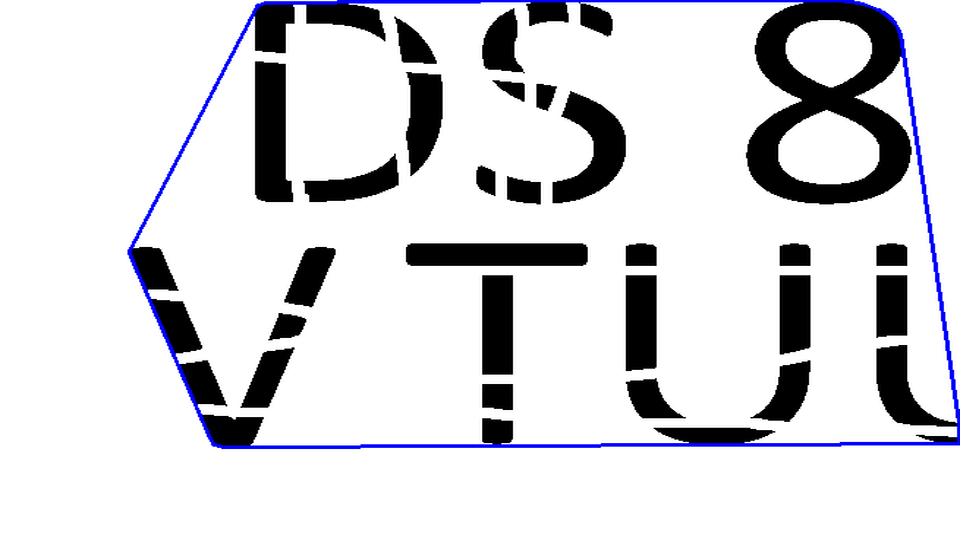
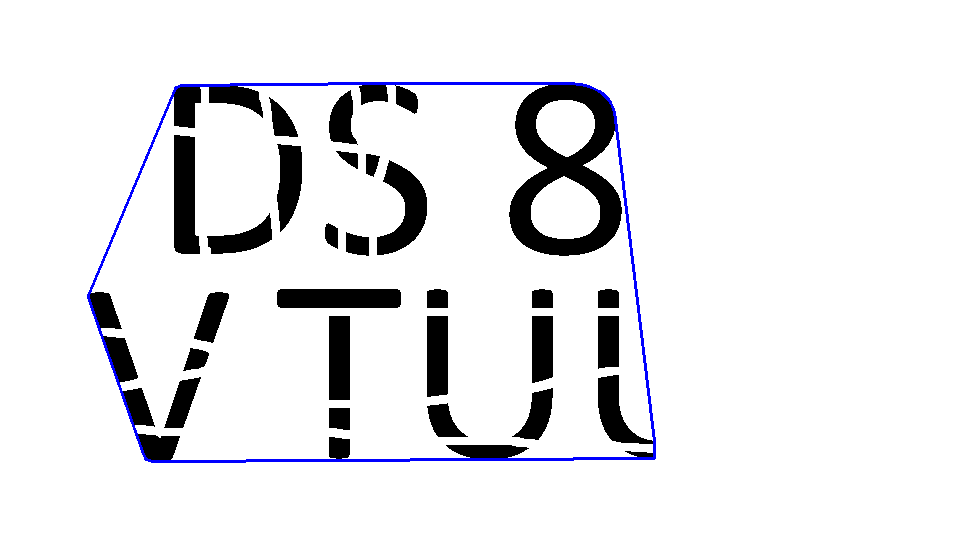
Lab 3 Res Fix

Changed region(s): [[0.0938, 0.0, 1.0, 0.8593]]

diff --git a/3/lab.py b/3/lab.py
@@ -5,15 +5,17 @@ import cv2
 import numpy as np
 from PIL import Image
 
+
 def getDataFromFile(path: str) -> str:
     with open(path, 'r') as file:
         return file.read()
+
 
 def getCordsFromData(data: str) -> set:
     x = []
     y = []
 
-    data = data.split('\n') 
+    data = data.split('\n')
     for string in data:
         if string:
             x_, y_ = string.split(' ')
@@ -23,25 +25,28 @@ def getCordsFromData(data: str) -> set:
 
     return x, y
 
-def getImageArrayFromCords(x: List[int], y: List[int], color: List[int]) -> list:
-    imageArray = np.zeros([ max(y) + 1, max(x) + 1, 4], dtype=np.uint8)
+
+def getImageArrayFromCords(width: int, height: int, rgb: int, x: List[int], y: List[int], color: List[int]) -> list:
+    imageArray = np.zeros([height, width, rgb], dtype=np.uint8)
 
     for i in range(len(x)):
         imageArray[y[i]][x[i]] = color
-    
+
     return imageArray
 
+
 def enchanceImage(image):
-    image = image.resize((540, 960), Image.LANCZOS)
     image = image.rotate(90, expand=True)
 
     return image
 
+
 def changeExtToPng(path: str) -> str:
     return path[:path.find('.') + 1] + 'png'
 
+
 def convexHullFromImage(x: List[int], y: List[int], savePath: str, lineColor: set) -> str:
-    dots = [ [[x[i], y[i]]] for i in range(len(x)) ]
+    dots = [[[x[i], y[i]]] for i in range(len(x))]
     dots = np.array(dots)
     hull = cv2.convexHull(dots)
 
@@ -51,7 +56,11 @@ def convexHullFromImage(x: List[int], y: List[int], savePath: str, lineColor: se
 
     return Image.open(savePath)
 
+
 if __name__ == '__main__':
+    WIDTH = 540
+    HEIGHT = 960
+    RGB = 4  # RGBA
     COLOR = [0, 0, 0, 255]
     LINE_COLOR = [255, 0, 0, 255]
 
@@ -60,7 +69,7 @@ if __name__ == '__main__':
 
     data = getDataFromFile(datasetPath)
     x, y = getCordsFromData(data)
-    imageArray = getImageArrayFromCords(x, y, COLOR)
+    imageArray = getImageArrayFromCords(WIDTH, HEIGHT, RGB, x, y, COLOR)
 
     image = Image.fromarray(imageArray)
     image.save(savePath)
